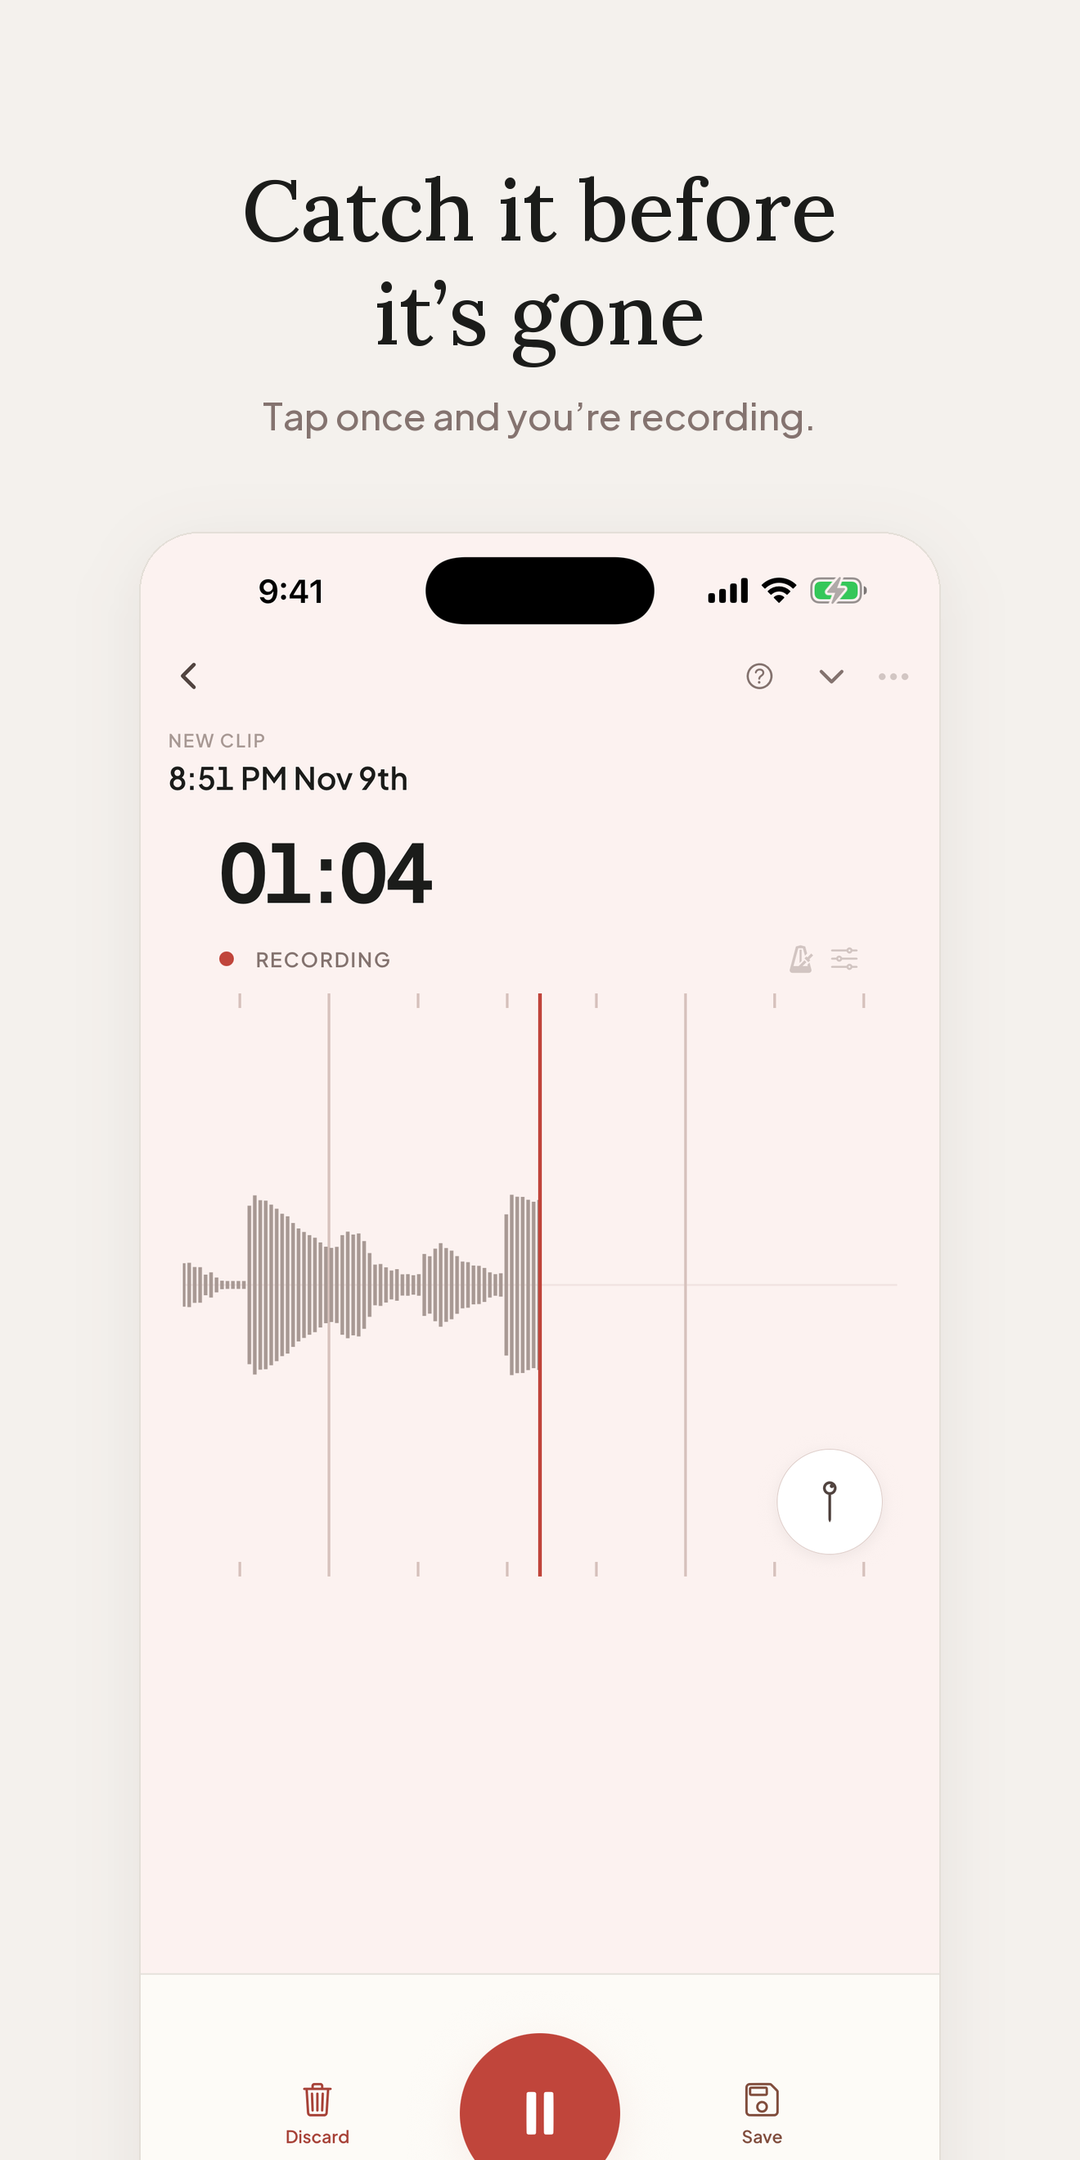
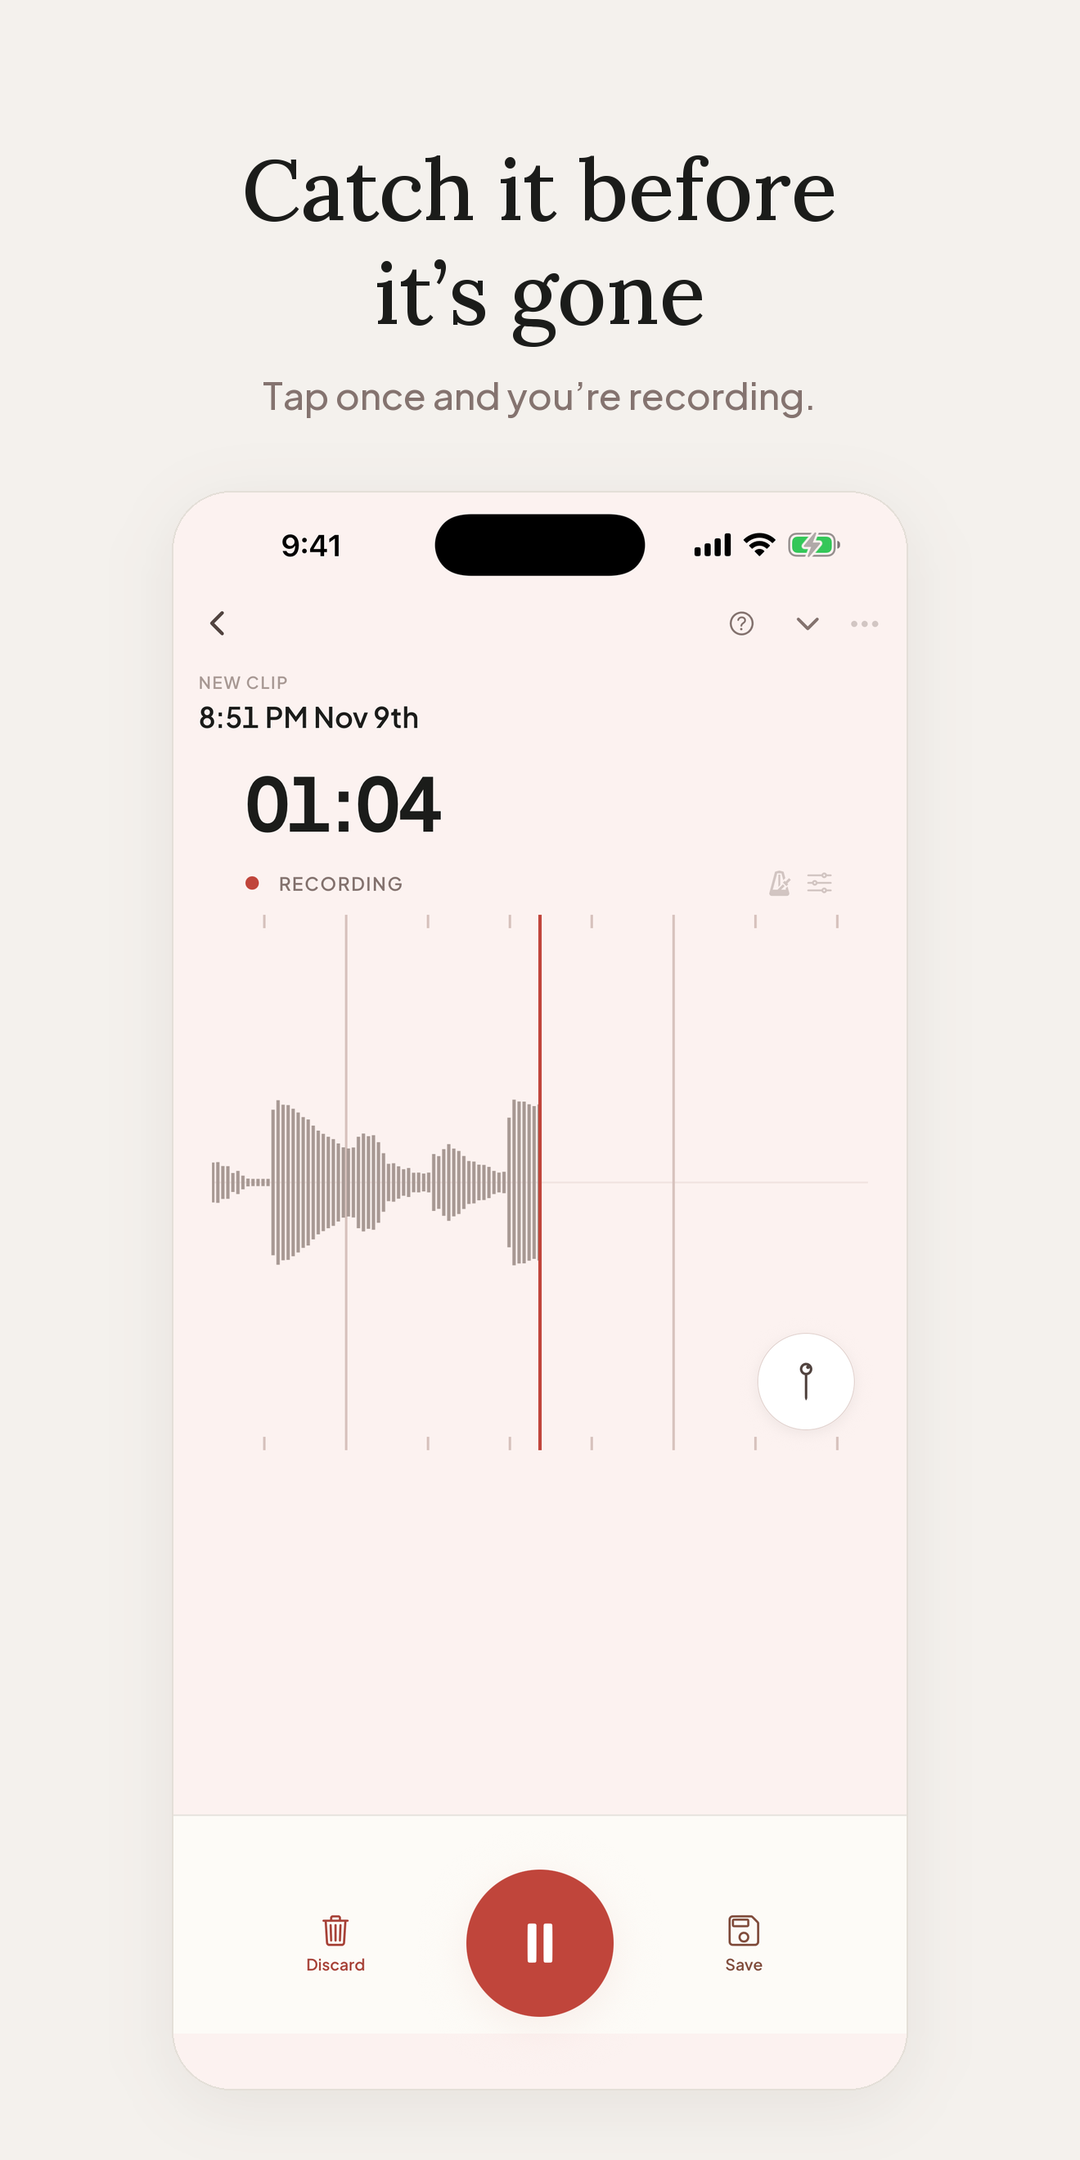
Play screenshots show the whole screen
Founder, 2026-11-14: the Play previews were cut off at the bottom. Play's
canvas is at most 2:1, so the bleed cut the main controls in half. Play now
shows the whole screen with four corners; Apple's keep the bleed.

diff --git a/scripts/store/compose-screenshots.py b/scripts/store/compose-screenshots.py
@@ -1,4 +1,8 @@
-"""Store screenshots: a caption on paper above a real screen that bleeds off the bottom.
+"""Store screenshots: a caption on paper above a real screen.
+
+Apple's screen bleeds off the bottom. Play's canvas is shorter (at most 2:1), so a bleed
+there cut the main controls in half (the recorder's Pause, the record button); Play shows
+the whole screen instead, slightly smaller, with all four corners (founder, 2026-11-14).
 
 Raw captures come from the iPhone 17 Pro Max simulator (1320x2868) with the demo
 library staged by the dev-only "Store library (dev)" collection menu row
@@ -28,7 +32,9 @@ SECONDARY = (0x84, 0x73, 0x6F)  # textSecondary
 
 # Play's frame is drawn at Apple's width, then scaled to 1080x2160.
 W, H = (1320, 2640) if TARGET == "play" else (1320, 2868)
-SCREEN_W, SCREEN_TOP = (980, 650) if TARGET == "play" else (1080, 690)
+SCREEN_W, SCREEN_TOP = (900, 600) if TARGET == "play" else (1080, 690)
+# Play shows the whole screen; Apple's runs off the bottom edge.
+BLEED = TARGET != "play"
 FRAMES = [
     ("01-capture", "recorder", "Catch it before it's gone", "Tap once and you're recording."),
     ("02-sketch", "sketch-b", "Every idea grows into a song", "Takes, versions and side ideas in one sketch."),
@@ -94,19 +100,22 @@ def frame(name, raw, title, sub):
     left = (W - sw) // 2
     radius = 72
 
+    # A bleeding screen rounds only its top corners (the bottom is off the canvas).
+    bottom = sh + radius if BLEED else sh - 1
     mask = Image.new("L", (sw, sh), 0)
-    ImageDraw.Draw(mask).rounded_rectangle((0, 0, sw - 1, sh + radius), radius=radius, fill=255)
+    ImageDraw.Draw(mask).rounded_rectangle((0, 0, sw - 1, bottom), radius=radius, fill=255)
 
     # Whisper shadow (≤ 0.08) so the paper screen lifts off the paper ground.
     shadow = Image.new("L", (W, H), 0)
-    ImageDraw.Draw(shadow).rounded_rectangle((left, top + 18, left + sw, top + sh + 200), radius=radius, fill=int(255 * 0.08))
+    shadow_bottom = top + sh + 200 if BLEED else top + sh + 18
+    ImageDraw.Draw(shadow).rounded_rectangle((left, top + 18, left + sw, shadow_bottom), radius=radius, fill=int(255 * 0.08))
     shadow = shadow.filter(ImageFilter.GaussianBlur(40))
     canvas = Image.composite(Image.new("RGB", (W, H), (60, 40, 30)), canvas, shadow)
 
     canvas.paste(screen, (left, top), mask)
     # Hairline edge, so the screen's own paper doesn't melt into the ground.
     ImageDraw.Draw(canvas).rounded_rectangle(
-        (left, top, left + sw - 1, top + sh + radius), radius=radius, outline=(0xE4, 0xDF, 0xD8), width=2
+        (left, top, left + sw - 1, top + bottom), radius=radius, outline=(0xE4, 0xDF, 0xD8), width=2
     )
     if TARGET == "play":
         canvas.resize((1080, 2160), Image.LANCZOS).save(f"{OUT}/{name}.png")
